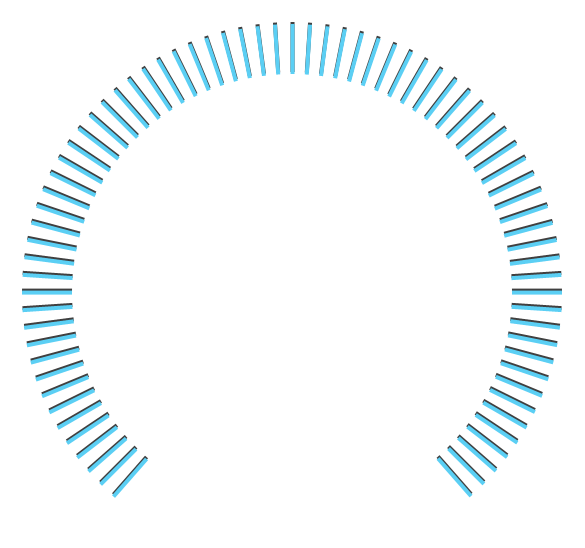
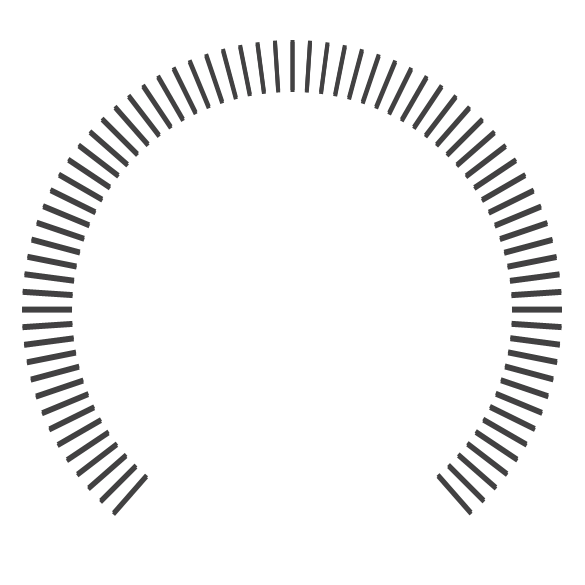
Volume Indikator
git-svn-id: file:///home/safri/trunk@465 b814e8b4-ce5c-4586-8ca0-119f393ed086

Changed region(s): [[0.0308, 0.031, 0.9846, 0.8996]]

diff --git a/src/Plugins/SafriApp/qml/Dialer.qml b/src/Plugins/SafriApp/qml/Dialer.qml
@@ -27,12 +27,47 @@ Rectangle {
     }
 
 
+    Canvas
+    {
+     id: canvas
+     objectName: "volumeIndicator"
+     property string imagefile:"resources/2-scale-volume.png"
+     property int volume
+     property double scale: scaleFactor
+
+     antialiasing: true
+     Component.onCompleted:loadImage(canvas.imagefile);
+     width: parent.height + (60* scaleFactor)
+     height: width + 15*scaleFactor
+     y: -45 * scaleFactor;
+     x: -30 * scaleFactor;
+     onPaint: clipIndicator();
+     onVolumeChanged: {canvas.requestPaint(); console.log(volume)}
+
+     function clipIndicator()
+     {
+            var ctx = canvas.getContext("2d");
+            ctx.reset()
+            ctx.save()
+
+            ctx.clearRect(0, 0, canvas.width, canvas.height);
+            ctx.lineWidth = 10
+            ctx.beginPath()
+            ctx.moveTo(canvas.width/2, canvas.width/2 + 15*scaleFactor)
+            ctx.arc(canvas.width/2, canvas.width/2 + 15*scaleFactor, (canvas.width / 2) - 10*scaleFactor , 2.3,  + 2.3 + (4.9 / 100 ) * canvas.volume, false)
+            ctx.closePath();
+            ctx.clip()
+            ctx.drawImage(canvas.imagefile, 0, 0, canvas.width, canvas.width);
+            console.log("paint")
+            ctx.restore()
+     }
+    }
 
     Image{
         source:"resources/6-highlight-fixed.png"
         anchors.centerIn: parent
-        width: parent.width
-        height:parent.height
+        width: parent.width-60*scaleFactor
+        height:parent.height-60* scaleFactor
         smooth: true
         Image {
         id: dialer
@@ -40,16 +75,19 @@ Rectangle {
         width: parent.width;
         height: parent.width
         source: "resources/5-outer-knob-rotatingII.png"
-        opacity:0.6
+        opacity:0.8
         smooth:true
         }
     }
 
     Image
     {
-        y:2
+
+        width: parent.width-60
+        height:parent.height-60
+        anchors.centerIn: parent;
         source:"resources/3-inner-knob-fixed.png"
-        anchors.fill:parent
+        z:-1
     }
     // the dialer stop layer
 

diff --git a/src/Plugins/SafriApp/qml/View1.qml b/src/Plugins/SafriApp/qml/View1.qml
@@ -113,6 +113,8 @@ Rectangle {
                 iconScale:1.2
                 icon1: "resources/genre.png"
                 objectName: "genreButton";
+                id: genreButton
+                onButtonClicked: {albumButton.enabled = false; artistButton.enabled = false}
             }
         }
         Rectangle
@@ -124,6 +126,7 @@ Rectangle {
             y:0
             PlayerButton
             {
+                id: artistButton;
                 width: parent.width
                 height: parent.height
                 checkable: true
@@ -131,6 +134,7 @@ Rectangle {
                 //enabled: true
                 icon1: "resources/artist.png"
                 objectName: "artistButton";
+                onButtonClicked: {albumButton.enabled = false; genreButton.enabled = false}
             }
         }
         Rectangle
@@ -142,14 +146,14 @@ Rectangle {
             y:0
             PlayerButton
             {
+                id:albumButton
                 width: parent.width
                 height: parent.height
                 icon1: "resources/album.png"
                 iconScale: 1.2
                 checkable: true
-                onEnabledChanged: view.interactive = !enabled
-                id: editModeButton
                 objectName: "albumButton";
+                onButtonClicked: {artistButton.enabled = false; genreButton.enabled = false}
             }
         }
 

diff --git a/src/Plugins/SafriApp/qml/View2.qml b/src/Plugins/SafriApp/qml/View2.qml
@@ -113,6 +113,7 @@ Rectangle {
                      color: "#838383"
                      text: currentSongDisplay.artistName
                      id: artistNameLabel
+
                  }
 
                  Text

diff --git a/src/Plugins/SafriApp/ViewController.cpp b/src/Plugins/SafriApp/ViewController.cpp
@@ -164,6 +164,7 @@ void ViewController::volumeSlot(QVariant vol)
             currentVol = 0;
 
         Core::ICore::playbackController()->setVolume(currentVol);
+        volumeIndicator->setProperty("volume", currentVol);
 }
 
 void ViewController::setMusicProgress(int val)
@@ -360,6 +361,7 @@ void ViewController::restSettingsChanged(QString setting)
 void ViewController::volumeChangedByPBController(int vol)
 {
     currentVol = vol;
+    volumeIndicator->setProperty("volume", vol);
 }
 
 void ViewController::QMLStatusChanged(QQuickView::Status status)
@@ -387,6 +389,7 @@ void ViewController::QMLStatusChanged(QQuickView::Status status)
         dialogController    = qobject_cast<QObject*>(view->rootObject()->findChild<QObject*>("dialogController"));
         playerPanel         = qobject_cast<QObject*>(view->rootObject()->findChild<QObject*>("playerPanel"));
         coverView           = qobject_cast<QObject*>(view->rootObject()->findChild<QObject*>("coverView"));
+        volumeIndicator     = qobject_cast<QObject*>(view->rootObject()->findChild<QObject*>("volumeIndicator"));
 
         genreButton 		= qobject_cast<QObject*>(view->rootObject()->findChild<QObject*>("genreButton"));
         artistButton 		= qobject_cast<QObject*>(view->rootObject()->findChild<QObject*>("artistButton"));

diff --git a/src/Plugins/SafriApp/ViewController.h b/src/Plugins/SafriApp/ViewController.h
@@ -86,6 +86,7 @@ class SAFRIAPPSHARED_EXPORT ViewController: public QObject
         QObject* genreButton;
         QObject* artistButton;
         QObject* albumButton;
+        QObject* volumeIndicator;
         QAbstractItemModel* model;
         QQuickItem* songTreeView;
         QSortFilterProxyModel* proxy;
